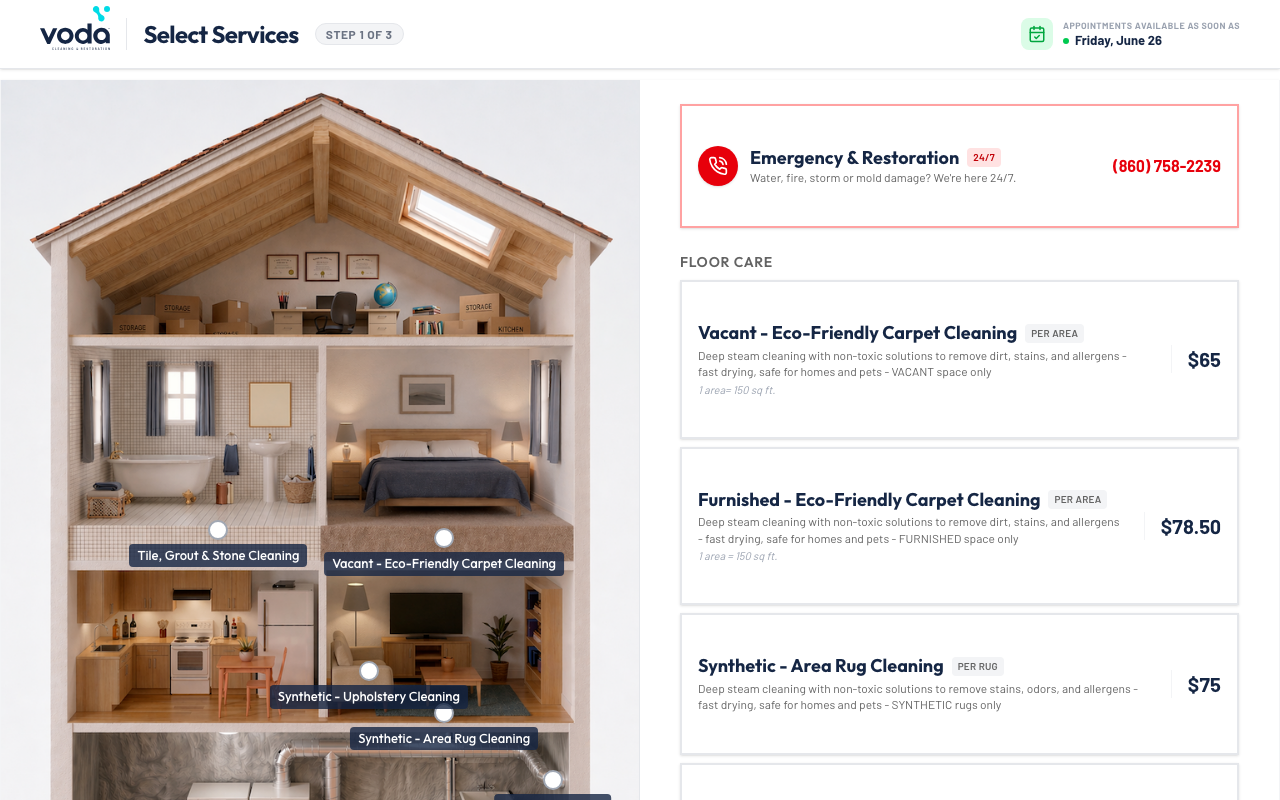
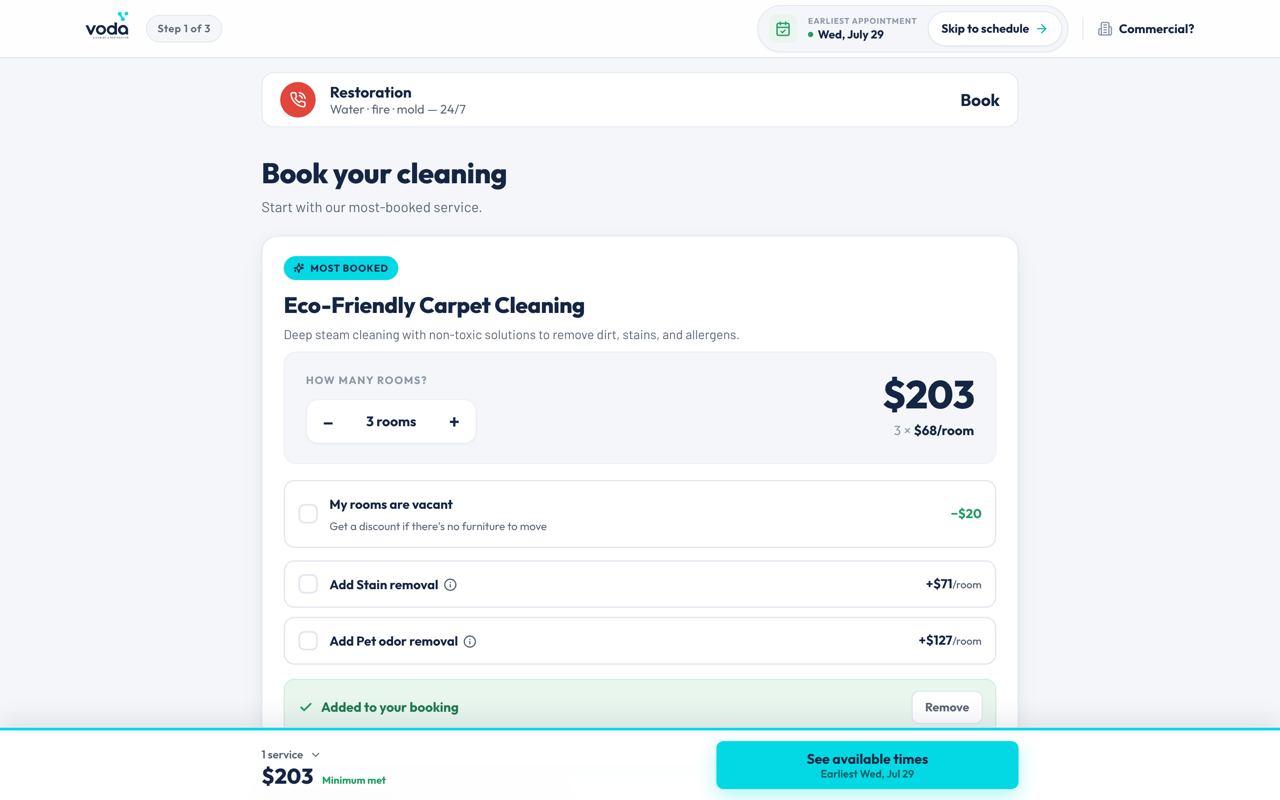
Refresh Voda from /services6, add Voda Booking Assistant, mark Anago live
Voda's card and slideshow still showed the old interactive-cutaway build. Both
are now recaptured from the current /services6 flow, driven end to end: the
pre-priced hero service, the per-service configurator over the catalog, the
combined schedule + contact step, and the confirmation recap. The overview and
captions described Bronze/Silver/Gold tiers that no longer exist, so they're
rewritten to match what the storefront actually does.

Also adds the voda-agentic chat booking prototype as a demo, and flips Anago to
live (moving its entry into the LIVE block so the section comments stay true).

diff --git a/src/data/projects.ts b/src/data/projects.ts
@@ -121,8 +121,8 @@ export const projects: Project[] = [
       tagline:
         "Quote, schedule and book a cleaning or restoration job in one flow — no phone tag, no waiting on an estimate.",
       overview: [
-        "Cleaning and restoration is high-consideration but time-sensitive, and price varies by room, condition and add-ons. Voda turns it into a self-serve booking flow: customers tap services on an interactive cutaway of the home, configure each one inline — room counts, furnished vs. vacant, and a Bronze/Silver/Gold tier — while a running total updates instantly.",
-        "From there they pick a date and appointment window, add their details, and review a transparent summary before a clean “Booking Confirmed” page. Capturing intent at its peak keeps the lead off the callback queue and hands the crew an accurate scope before they arrive — while an always-visible Emergency & Restoration line gives urgent water, fire and mold jobs an immediate path in.",
+        "Cleaning and restoration is high-consideration but time-sensitive, and price varies by room, condition and add-ons. Voda opens on its most-booked service already priced and in the cart: customers set room count, flag vacant rooms for a discount and tick upgrades like stain or pet-odor removal, watching the total move on every tap. Nothing is gated behind a form.",
+        "From there the catalog cross-sells — each service opens its own configurator, so a carpet clean picks up air ducts or upholstery before checkout. One step collects the appointment window and contact details against a running order summary, then a clean “Booking Confirmed” recap. Capturing intent at its peak keeps the lead off the callback queue and hands the crew an accurate scope before they arrive — while an always-visible Restoration line gives urgent water, fire and mold jobs an immediate path in.",
       ],
       highlights: [
         { label: "Vertical", value: "Cleaning & Restoration" },
@@ -133,19 +133,23 @@ export const projects: Project[] = [
       shots: [
         {
           src: "/shots/voda/services.png",
-          caption: "Browse the full catalog on an interactive home cutaway, with an always-on emergency line.",
+          caption:
+            "The most-booked service leads, priced and ready — rooms, vacancy discount and upgrades all live, with a 24/7 restoration line on top.",
         },
         {
           src: "/shots/voda/selected.png",
-          caption: "Configure each service — rooms, condition and service level — as a live total tallies.",
+          caption:
+            "The rest of the catalog cross-sells; each service opens its own configurator and prices itself before it joins the cart.",
         },
         {
           src: "/shots/voda/schedule.png",
-          caption: "Pick a date and window and add details, with the order summary locking the slot.",
+          caption:
+            "Date, appointment window and contact details in one step, with a running order summary holding the estimate.",
         },
         {
           src: "/shots/voda/confirmation.png",
-          caption: "Booking confirmed — appointment, services, total and a clear what's-next plan.",
+          caption:
+            "Booking confirmed — appointment, itemized services, total and a clear what's-next plan.",
         },
       ],
     },
@@ -243,6 +247,14 @@ export const projects: Project[] = [
     status: "live",
     blurb: "Routine pet-waste plans priced and signed up in under a minute.",
   },
+  {
+    name: "Anago",
+    slug: "anago",
+    industry: "Commercial Cleaning",
+    url: "https://v0-anago-cleaning.vercel.app/",
+    status: "live",
+    blurb: "Commercial janitorial bids, productized for self-serve buyers.",
+  },
 
   // ---------------- IN DEVELOPMENT ----------------
   {
@@ -298,14 +310,6 @@ export const projects: Project[] = [
       ],
     },
   },
-  {
-    name: "Anago",
-    slug: "anago",
-    industry: "Commercial Cleaning",
-    url: "https://v0-anago-cleaning.vercel.app/",
-    status: "dev",
-    blurb: "Commercial janitorial bids, productized for self-serve buyers.",
-  },
 
   // ---------------- OPERATOR TOOLS ----------------
   {
@@ -318,6 +322,15 @@ export const projects: Project[] = [
   },
 
   // ---------------- DEMOS ----------------
+  {
+    name: "Voda Booking Assistant",
+    slug: "voda-agentic",
+    industry: "Cleaning & Restoration",
+    location: "Madison, WI",
+    url: "https://voda-agentic.vercel.app/",
+    status: "demo",
+    blurb: "The whole storefront as a conversation — quote, schedule and pay by chat.",
+  },
   {
     name: "Koala Insulation",
     slug: "koala",
